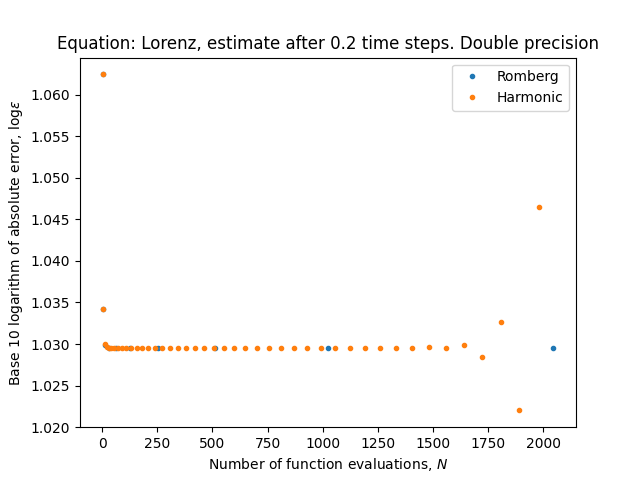
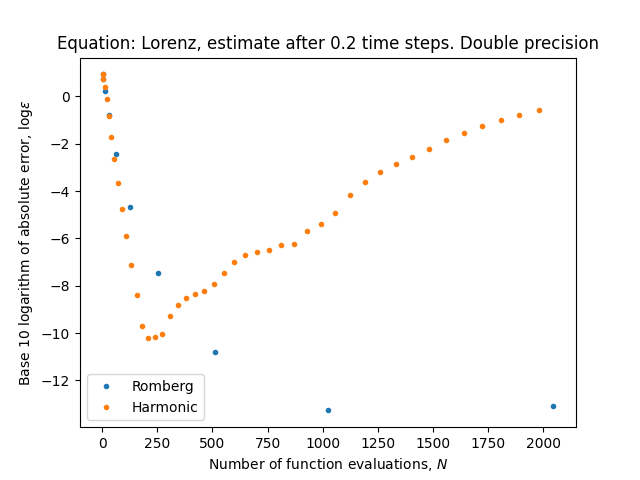
Double precision lorenz system was incorrectly set up. Fixed that.

diff --git a/explicit_midpoint_rule.py b/explicit_midpoint_rule.py
@@ -177,7 +177,7 @@ def plot_basic():
 	result_harmonic = analyze(ivp, emr, harmonic_short, False)
 	results_ivp_seq.append([result_rom, result_harmonic])
 
-	ivp = InitialValueProblem(lambda t,y: np.array([10.0 * (y[1] - y[0]), y[0] * (28.0 - y[2]) - y[1], y[0] * y[1] - 8.0/3.0 * y[2]]), np.array([1.0, 1.0, 1.0]), 0.0, 0.1, lorenz_solution_02, 'Lorenz, estimate after 0.2 time steps.', 'lorenz_02')
+	ivp = InitialValueProblem(lambda t,y: np.array([10.0 * (y[1] - y[0]), y[0] * (28.0 - y[2]) - y[1], y[0] * y[1] - 8.0/3.0 * y[2]]), np.array([1.0, 1.0, 1.0]), 0.0, 0.2, lorenz_solution_02, 'Lorenz, estimate after 0.2 time steps.', 'lorenz_02')
 	ivps.append(ivp)
 	result_rom = analyze(ivp, emr, romberg_short, False)
 	result_harmonic = analyze(ivp, emr, harmonic_short, False)
